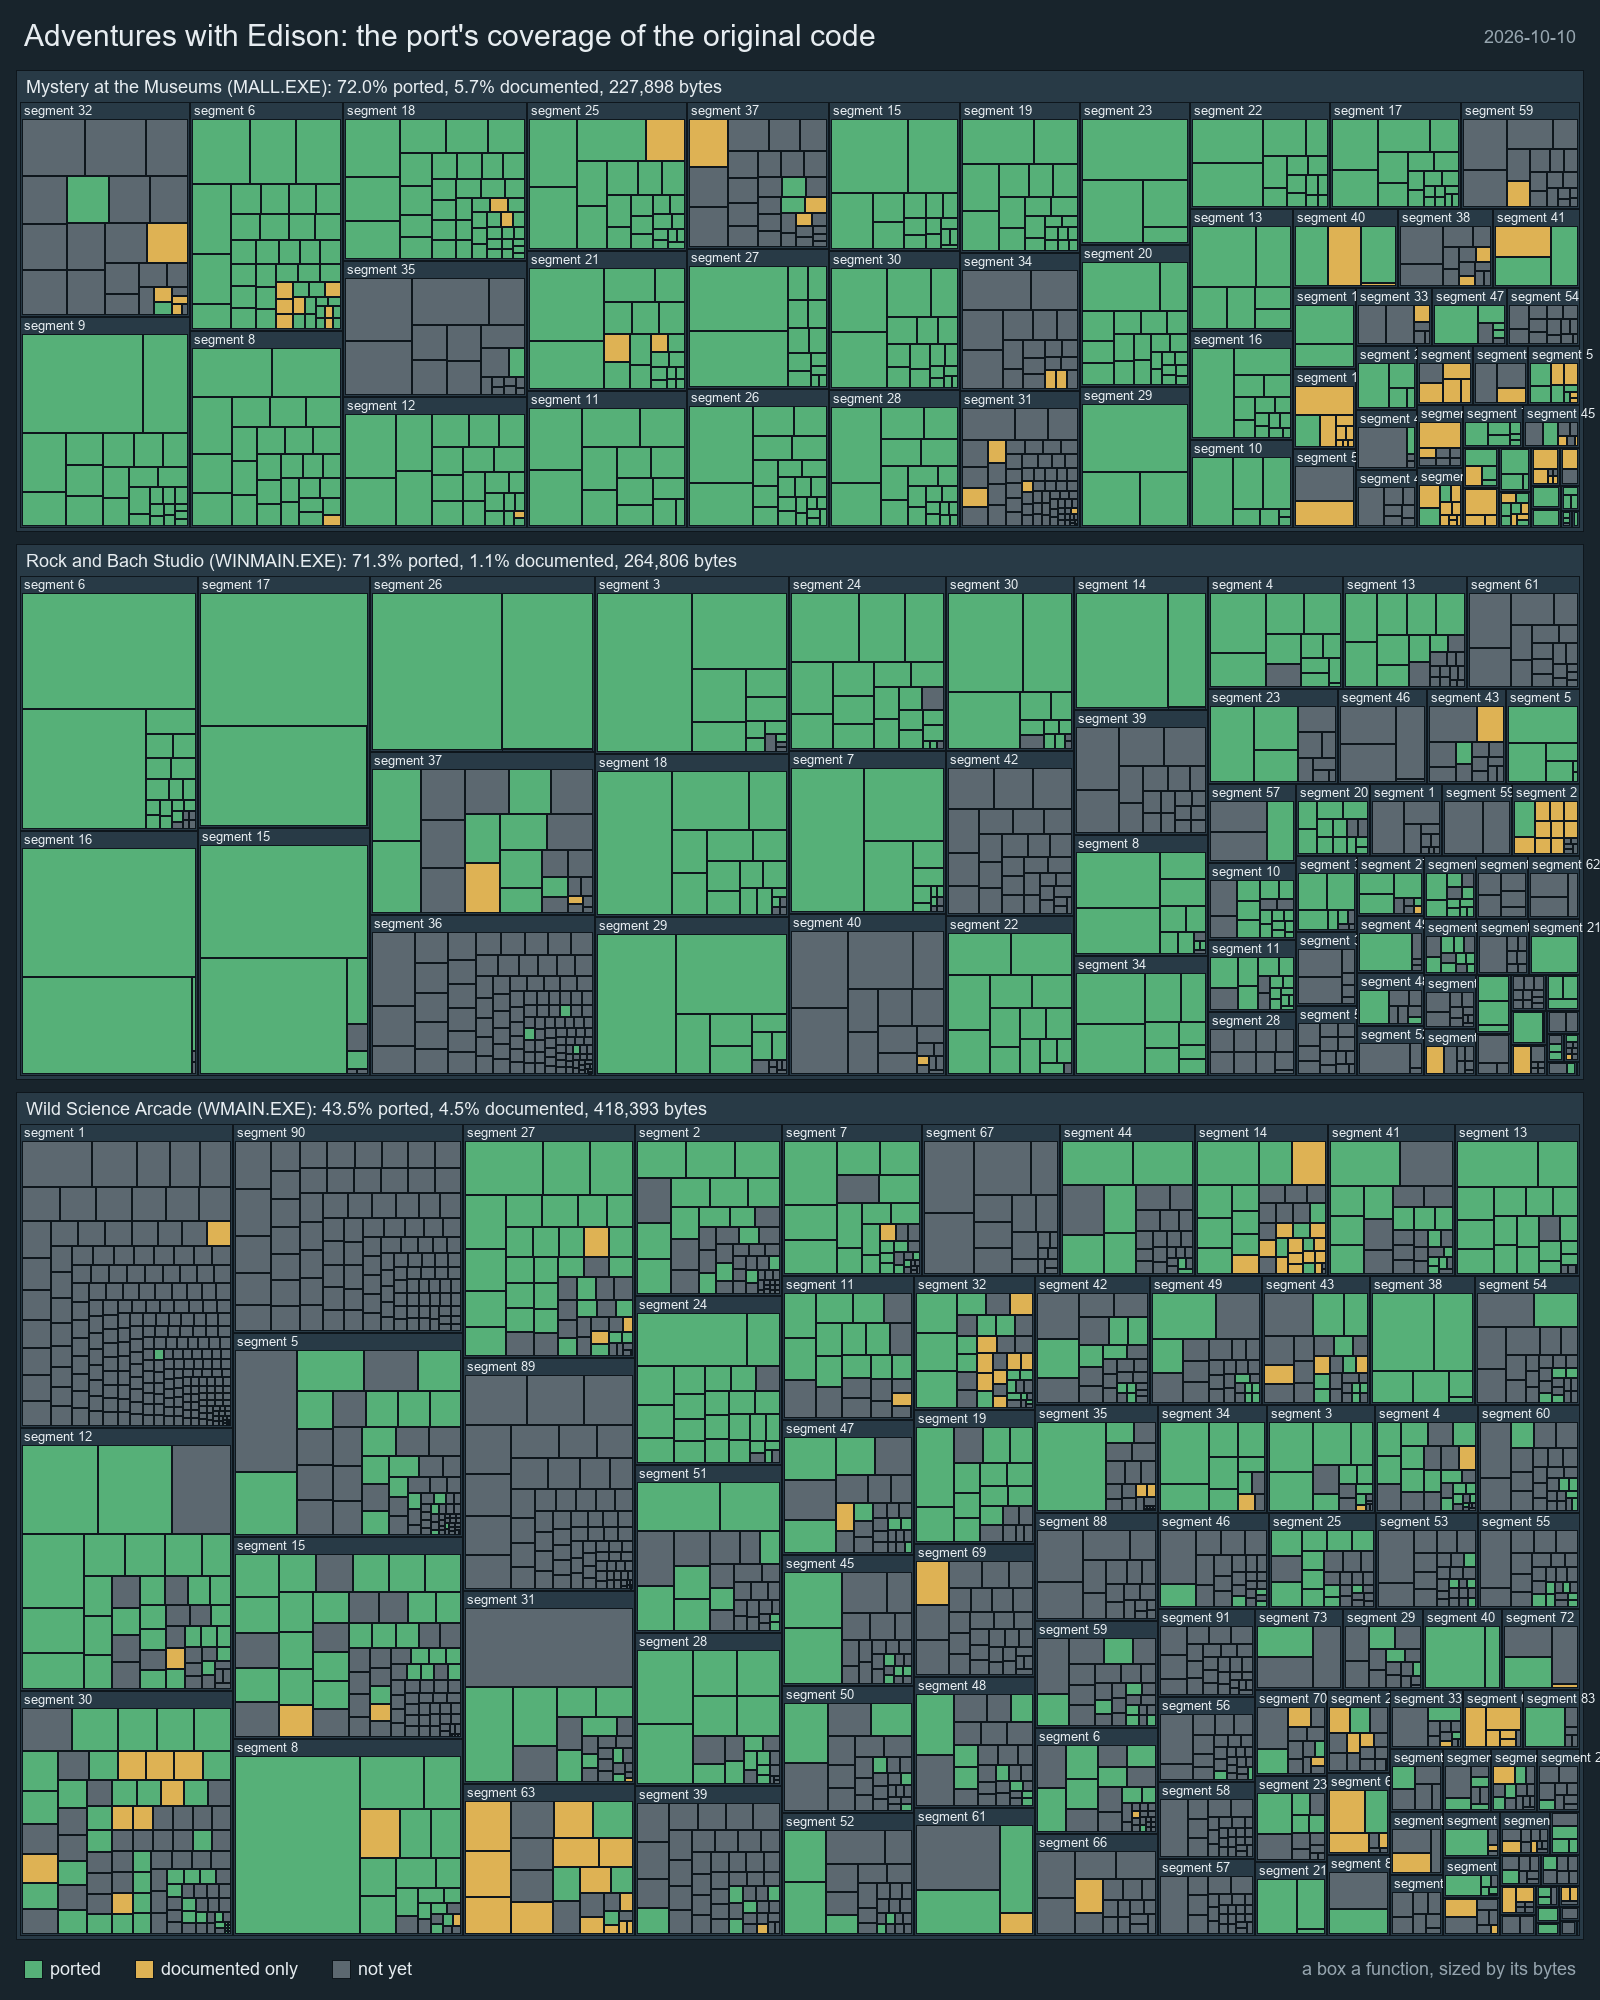
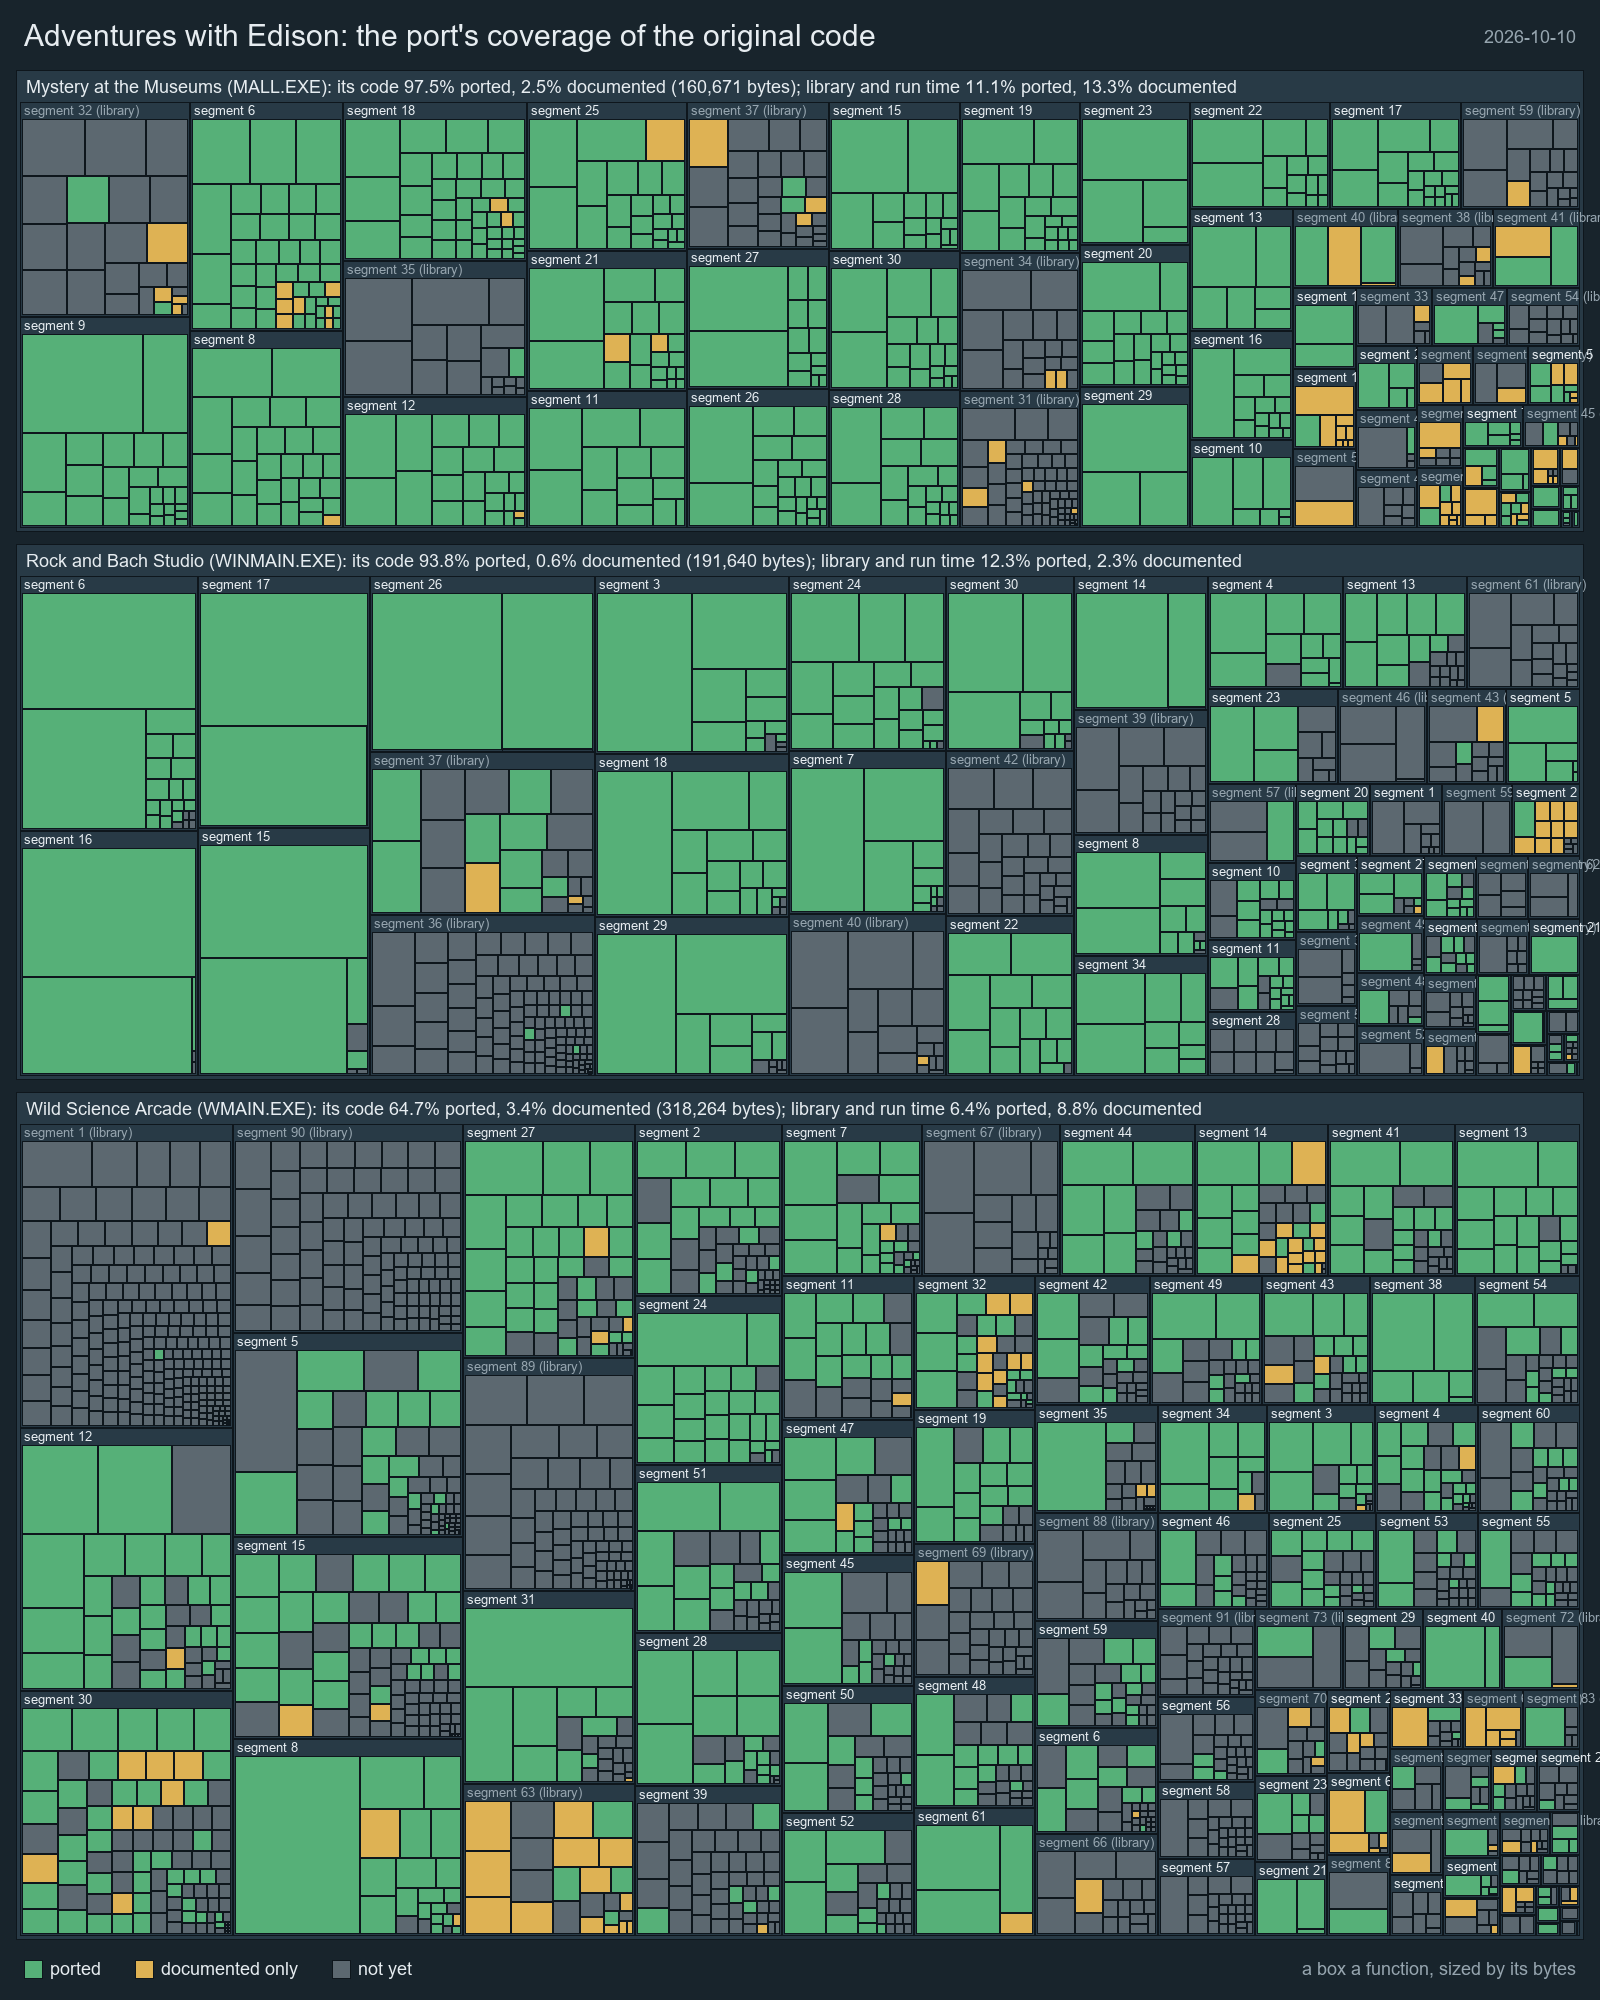
tools/progress.py: the share of each game's own code, its library and run time apart (MALL 31-60, WINMAIN 36-62, WMAIN 1 and 63-91: the Artech library and Borland's run time, which the port replaces with its platform layer); a name 3 bytes before a function counts for it (Borland's prologue, which G

diff --git a/tools/progress.py b/tools/progress.py
@@ -10,7 +10,10 @@ A function is "ported" when the port's source for its game cites it (by
 name, f30_306a / g30_3527, or by an address inside it, 30:3527),
 "documented" when only the game's notes (docs/MYSTERY.md, ROCKBACH.md,
 SCIENCE.md) do (Windows and the CD, the platform layer, code nothing
-reaches), else "not yet". The shared code (engine/src/artech) counts for
+reaches), else "not yet". The share is of each game's own code, its library and run
+time (LIBRARY, replaced by the port's platform layer) shown apart; a
+name 3 bytes before a function is taken as its (Borland's prologue,
+which Ghidra's names skip). The shared code (engine/src/artech) counts for
 Mystery's MALL.EXE unless its line names WMAIN or WINMAIN / Rock and Bach.
 The functions and their sizes come from tools/nedis.py's disassembly
 (extracted/disasm/*.asm: run it first); the chart re-reads the citations
@@ -37,6 +40,13 @@ GAMES = [
     ("rockbach", "Rock and Bach Studio", "WINMAIN.EXE", "engine/src/rockbach", "docs/ROCKBACH.md", (120, 190, 240)),
     ("science", "Wild Science Arcade", "WMAIN.EXE", "engine/src/science", "docs/SCIENCE.md", (150, 220, 140)),
 ]
+# Each game's library and run time (the notes' maps): the Artech library
+# with Borland's C run time first (MALL 31-60, WINMAIN the same five
+# segments on), WMAIN's run time (1, 89-91) and its library build (63-88).
+# The port replaces these with its own platform layer, citing only what it
+# matches, so the share is the game's own code's; the library's is shown
+# apart.
+LIBRARY = {"mystery": set(range(31, 61)), "rockbach": set(range(36, 63)), "science": {1} | set(range(63, 92))}
 SHARED = "engine/src/artech"
 
 NAME = re.compile(r"\b[fg]([0-9]{2})_([0-9a-f]{4})\b")
@@ -104,7 +114,12 @@ def cited(lines, find):
     out = set()
     for line in lines:
         for m in NAME.finditer(line):
-            f = find(int(m.group(1)), int(m.group(2), 16))
+            # A name 3 bytes before a function is its Borland prologue's
+            # (mov ax, ss; nop): Ghidra's, and the notes', start after it.
+            seg, off = int(m.group(1)), int(m.group(2), 16)
+            f = find(seg, off + 3)
+            if f != f"f{seg:02d}_{off + 3:04x}":
+                f = find(seg, off)
             if f:
                 out.add(f)
         for m in ADDRESS.finditer(line):
@@ -218,13 +233,21 @@ def box(draw, r, fill, outline=FRAME):
     draw.rectangle([x0, y0, x1, y1], fill=fill, outline=outline)
 
 
-def share(funcs, status):
-    total = sum(size for fs in funcs.values() for _, size, _ in fs)
+def share(funcs, status, segs=None):
+    """The bytes, and by status, of the segments (all by default)."""
+    segs = funcs.keys() if segs is None else segs
+    total = sum(size for seg in segs for _, size, _ in funcs[seg])
     by = {"ported": 0, "documented": 0, "not yet": 0}
-    for fs in funcs.values():
-        for _, size, name in fs:
+    for seg in segs:
+        for _, size, name in funcs[seg]:
             by[status.get(name, "not yet")] += size
-    return total, by
+    return max(total, 1), by
+
+
+def parts(g):
+    """The game's own segments and its library's."""
+    lib = LIBRARY[g["key"]]
+    return [s for s in g["funcs"] if s not in lib], [s for s in g["funcs"] if s in lib]
 
 
 def treemap(games, path):
@@ -242,10 +265,14 @@ def treemap(games, path):
     colours = {"ported": PORTED, "documented": DOCUMENTED, "not yet": NOT_YET}
     for g, size in zip(games, sizes):
         gh = span * size / sum(sizes)
-        total, by = share(g["funcs"], g["status"])
+        own, lib = parts(g)
+        total, by = share(g["funcs"], g["status"], own)
+        ltotal, lby = share(g["funcs"], g["status"], lib)
         box(d, (16, y, W - 32, gh), HEAD)
-        label = (f"{g['title']} ({g['exe']}): {100 * by['ported'] / total:.1f}% ported, "
-                 f"{100 * by['documented'] / total:.1f}% documented, {total:,} bytes")
+        label = (f"{g['title']} ({g['exe']}): its code {100 * by['ported'] / total:.1f}% ported, "
+                 f"{100 * by['documented'] / total:.1f}% documented ({total:,} bytes); "
+                 f"library and run time {100 * lby['ported'] / ltotal:.1f}% ported, "
+                 f"{100 * lby['documented'] / ltotal:.1f}% documented")
         d.text((26, y + 6), label, font=small, fill=TEXT)
         inner = (20, y + 32, W - 40, gh - 36)
         segs = sorted(((sum(s for _, s, _ in fs), seg) for seg, fs in g["funcs"].items()), reverse=True)
@@ -257,7 +284,8 @@ def treemap(games, path):
             for (name, st), fr in squarify(fs, sx + 2, sy + head + 1, sw - 4, sh - head - 3):
                 box(d, fr, colours[st])
             if head:
-                d.text((sx + 4, sy + 1), f"segment {seg}", font=tiny, fill=TEXT)
+                tag = f"segment {seg}" + (" (library)" if seg in LIBRARY[g["key"]] else "")
+                d.text((sx + 4, sy + 1), tag, font=tiny, fill=DIM if seg in LIBRARY[g["key"]] else TEXT)
         y += gh + 12
     # The legend.
     x = 24
@@ -282,8 +310,9 @@ def history(games, finders):
         point = {}
         for g in games:
             ported = cited(lines[g["key"]], finders[g["key"]])
-            total = sum(s for fs in g["funcs"].values() for _, s, _ in fs)
-            done = sum(s for fs in g["funcs"].values() for _, s, n in fs if n in ported)
+            own, _ = parts(g)
+            total = sum(s for seg in own for _, s, _ in g["funcs"][seg])
+            done = sum(s for seg in own for _, s, n in g["funcs"][seg] if n in ported)
             point[g["key"]] = 100 * done / total
         out.append((datetime.datetime.fromtimestamp(int(t)), point))
     return out
@@ -294,7 +323,7 @@ def chart(games, points, path):
     img = Image.new("RGB", (W, H), BACK)
     d = ImageDraw.Draw(img)
     title, small = font(30), font(18)
-    d.text((24, 18), "Adventures with Edison: the code ported, commit by commit", font=title, fill=TEXT)
+    d.text((24, 18), "Adventures with Edison: each game's own code ported, commit by commit", font=title, fill=TEXT)
     left, right, top, bottom = 90, W - 150, 80, H - 110
     d.rectangle([left, top, right, bottom], fill=HEAD)
     for pct in range(0, 101, 25):
@@ -353,10 +382,13 @@ def main():
         status = {n: "ported" for n in ported}
         status.update({n: "documented" for n in documented})
         games.append(dict(key=key, title=title, exe=exe, funcs=funcs, status=status, colour=colour))
-        total, by = share(funcs, status)
+        own, lib = parts(games[-1])
+        total, by = share(funcs, status, own)
+        ltotal, lby = share(funcs, status, lib)
         count = sum(len(fs) for fs in funcs.values())
-        print(f"{title}: {count} functions, {total:,} bytes: {100 * by['ported'] / total:.1f}% ported, "
-              f"{100 * by['documented'] / total:.1f}% documented only")
+        print(f"{title}: {count} functions; its code {total:,} bytes, {100 * by['ported'] / total:.1f}% ported, "
+              f"{100 * by['documented'] / total:.1f}% documented only; library and run time {ltotal:,} bytes, "
+              f"{100 * lby['ported'] / ltotal:.1f}% ported, {100 * lby['documented'] / ltotal:.1f}% documented only")
     treemap(games, OUT / "PROGRESS.png")
     print(f"wrote {OUT / 'PROGRESS.png'}")
     if not opts.no_history:

diff --git a/README.md b/README.md
@@ -29,8 +29,11 @@ Captured from the port (`edison --capture`); the artwork is the original games'.
 
 How much of each game's code the port covers: a box per function of the
 original, sized by its bytes (green ported, cited by the port's source;
-amber documented only; grey not yet), and the share ported commit by
-commit. Drawn by `tools/progress.py` (after `tools/nedis.py`).
+amber documented only; grey not yet), and the share of each game's own
+code ported, commit by commit. The library and run time segments (the
+Artech library, Borland's C and C++ run time) are shown apart: the port
+replaces them with its own platform layer. Drawn by `tools/progress.py`
+(after `tools/nedis.py`).
 
 ![The port's coverage of the original code](progress/PROGRESS.png)
 
